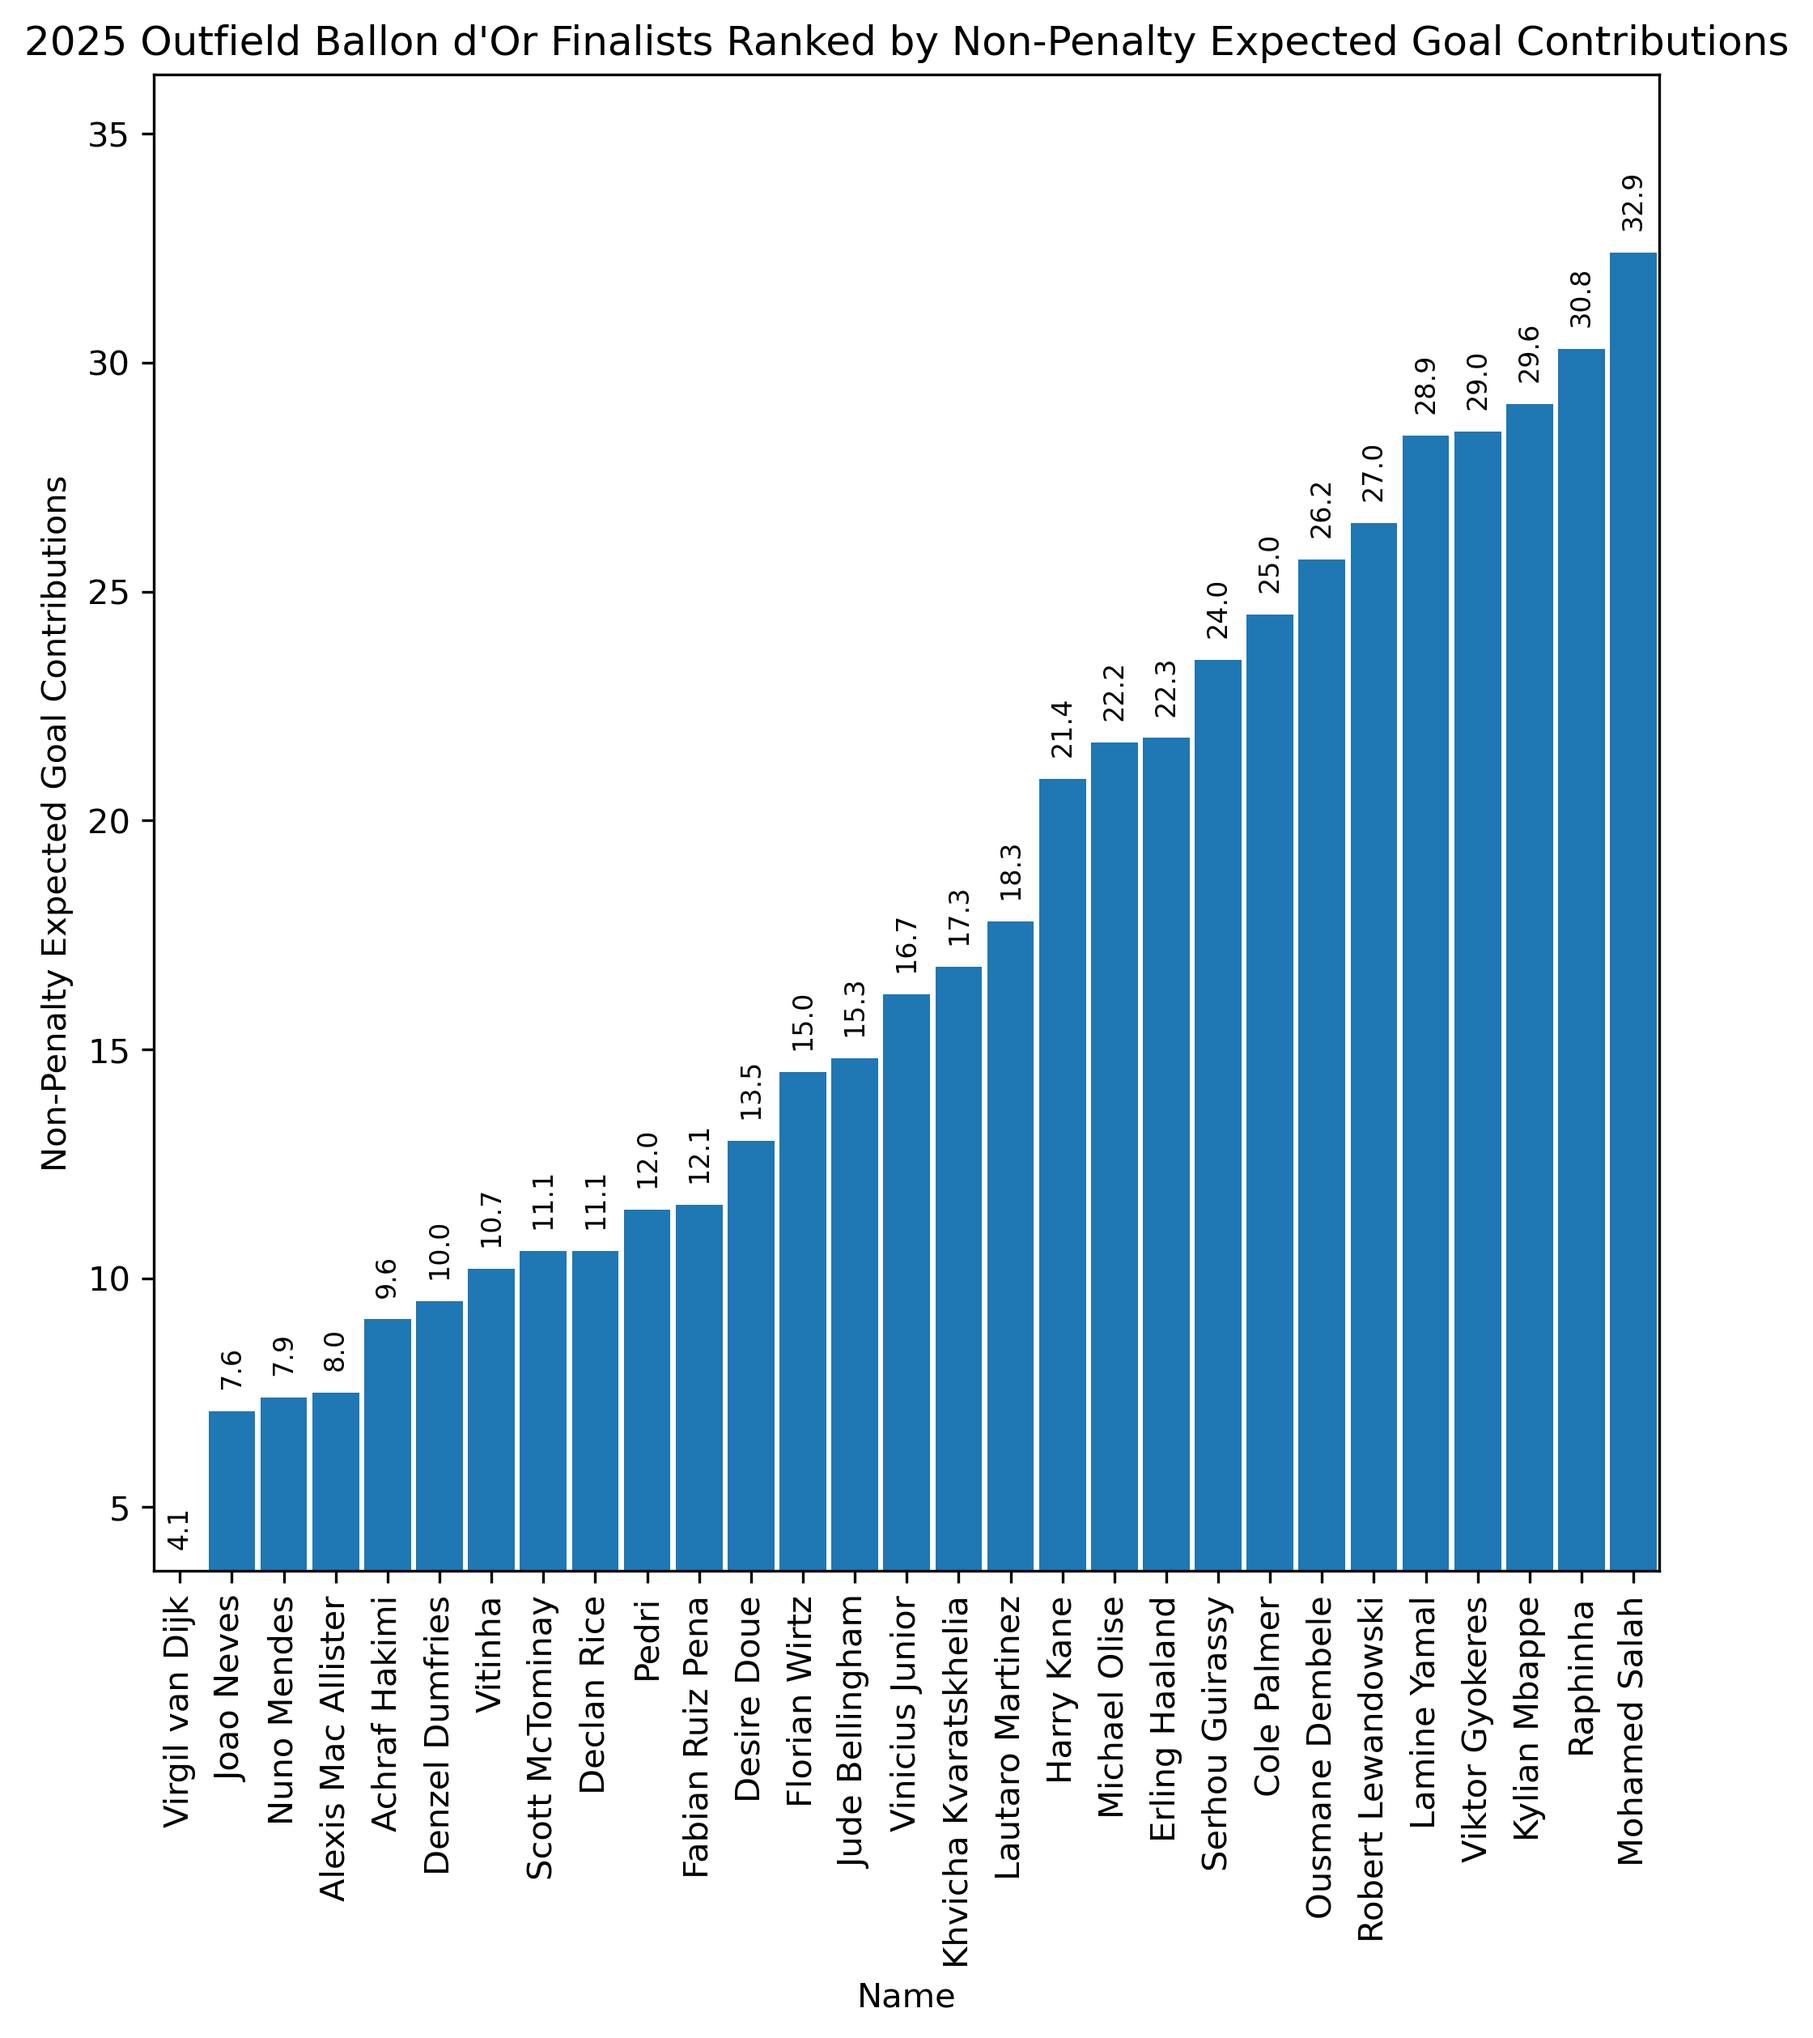
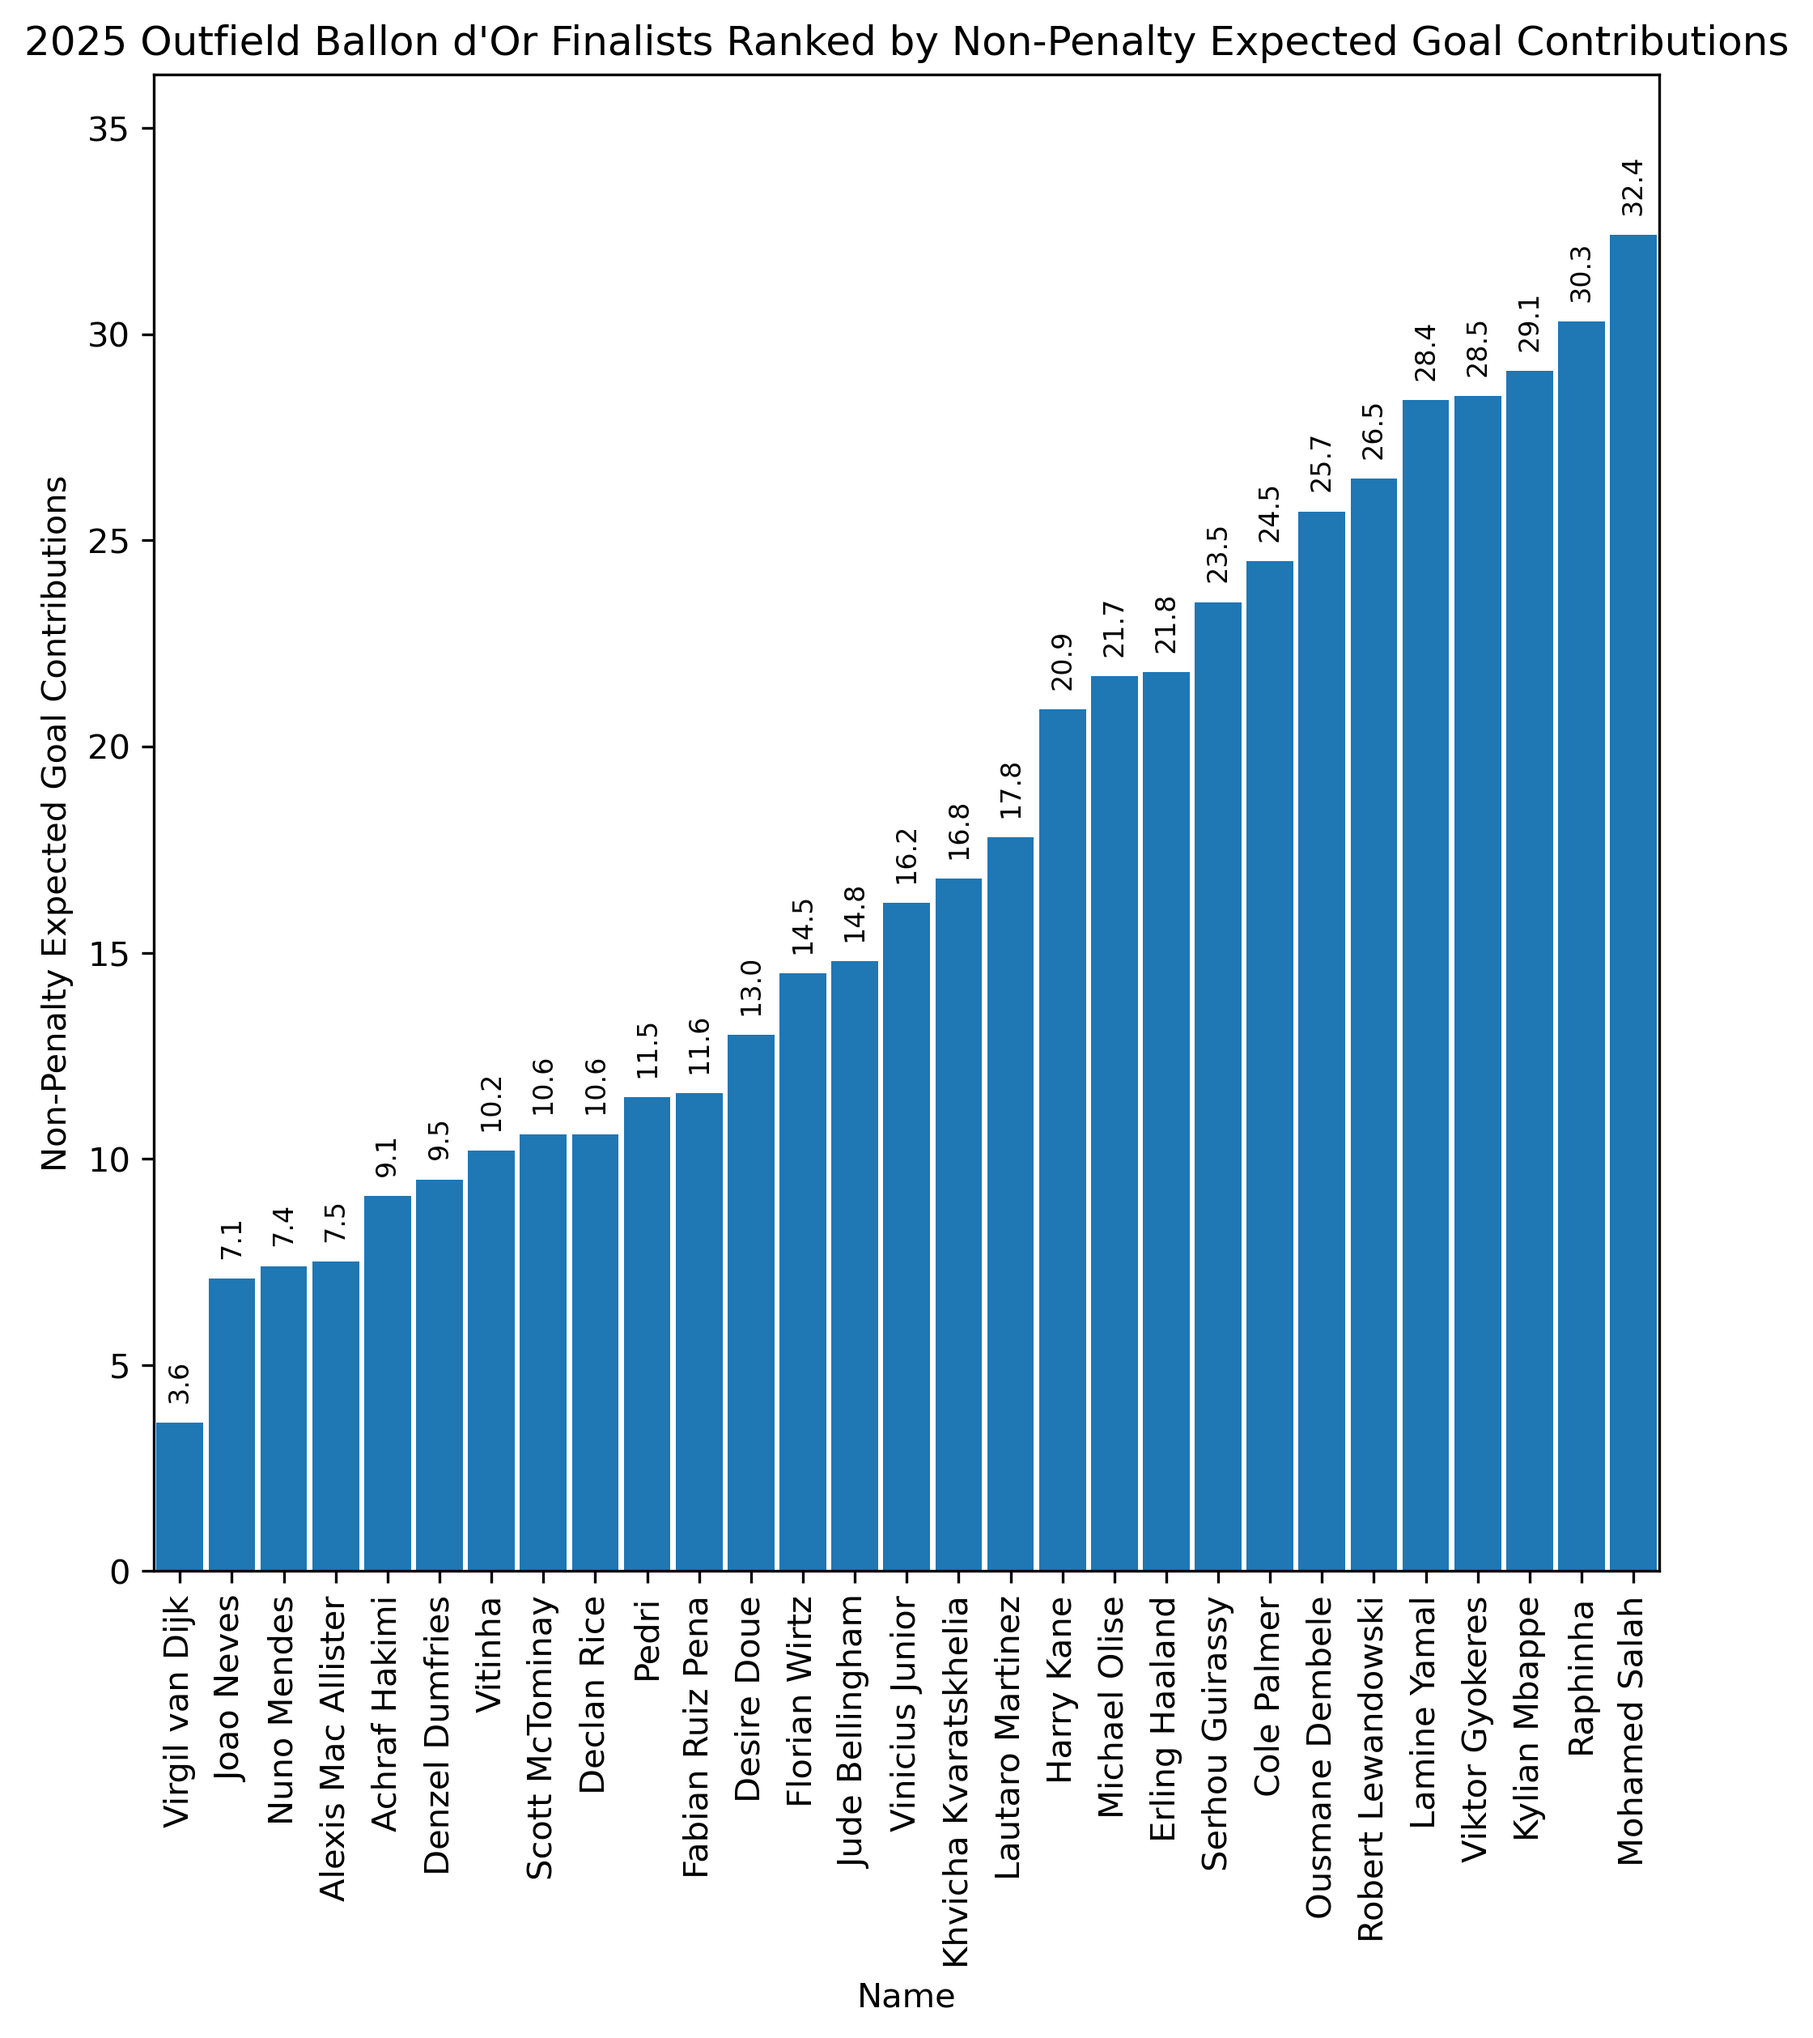
fixed error in graph function, changed percentile methodology, and updated my graphs

Changed region(s): [[0.0625, 0.124, 0.9062, 0.7747], [0.0312, 0.1549, 0.0938, 0.1859], [0.875, 0.093, 0.9062, 0.124]]

diff --git a/analysis/retrospective/past_profiles.py b/analysis/retrospective/past_profiles.py
@@ -7,28 +7,33 @@ from helper_functions.bar_graph import bar_graph
 data = pd.read_csv('data/nominees_outfield.csv')
 
 data = data.rename(columns={
-    'Carries 1/3': 'Carries in the Final Third', 
-    'Take-Ons Att': 'Take-On Attempts',
+    'Performance G+A': 'Goal Contributions', 
+    'Standard SoT': 'Shots on Target',
+    'Outcomes Off': 'Offsides',
+    'PPA': 'Passes into Opponent Penalty Area',
     'Pass Types TB': 'Through Balls',
-    'Playing Time Mn/MP': 'Minutes Per Match Played',
-    'Blocks Sh': 'Shots Blocked',
-    'Performance Fld': 'Fouls Drawn',
-    'Expected Np:G-xG': 'xG Overperformance',
-    'Per 90 Minutes G+A-PK': 'Non-Penalty Goals and Assists Per 90'
+    'Touches Att Pen': 'Touches in Opponent Penalty Area',
+    'GCA Types PassLive': 'Open Play Passes',
+    'Expected NpxG+xAG': 'Expected Non-Penalty Goal Contributions'
 })
 
 stat_cols = [
-    'Carries in the Final Third', 
-    'xG Overperformance',
+    'Goal Contributions', 
+    'Shots on Target',
+    'Offsides',
+    'Passes into Opponent Penalty Area',
     'Through Balls',
-    'Minutes Per Match Played',
-    'Fouls Drawn',
-    'Shots Blocked', 
-    'Take-On Attempts',
-    'Non-Penalty Goals and Assists Per 90'
+    'Touches in Opponent Penalty Area', 
+    'Open Play Passes',
+    'Expected Non-Penalty Goal Contributions'
 ]
 
 data = data[stat_cols + ['Name','Season','Winner']]
+
+for col in stat_cols:
+    data[col] = data.groupby('Season')[col].rank(pct=True, method='average')
+    data[col] = data[col].clip(lower=0.05)
+
 big_four = data[
     data['Name'].isin(['Lamine Yamal','Ousmane Dembele','Mohamed Salah','Raphinha'])
     & (data['Season'] == '2024-2025')
@@ -40,20 +45,12 @@ winners_df = data[
 ]
 
 profiles = winners_df[stat_cols].mean().to_frame().T
-profiles['Name'] = 'Average Previous Winner'
+profiles['Name'] = 'Past-Winner Profile'
 
 profiles = pd.concat(
     [big_four.drop(columns=['Season','Winner']), profiles],
     ignore_index=True
 )
-
-for col in stat_cols:
-    col_min = min(0, profiles[col].min())
-    col_max = profiles[col].max()
- 
-    profiles[col] = (profiles[col] - col_min) / (col_max - col_min)
-
-    profiles[col] = profiles[col].clip(lower=0.05)
 
 angles = np.linspace(0, 2 * np.pi, len(stat_cols), endpoint=False).tolist()
 angles += [angles[0]]
@@ -66,7 +63,7 @@ ax.tick_params(labelsize=8)
 ax.grid(linestyle='-', linewidth=0.6)
 
 colors = {
-    'Average Previous Winner': '#1B2A41',
+    'Past-Winner Profile': '#1B2A41',
     'Lamine Yamal': '#E09F3E',
     'Ousmane Dembele': '#3A86A8',
     'Mohamed Salah': '#6D597A',
@@ -74,7 +71,7 @@ colors = {
 }
 
 markers = {
-    'Average Previous Winner': 'o',
+    'Past-Winner Profile': 'o',
     'Lamine Yamal': 's',
     'Ousmane Dembele': '^',
     'Mohamed Salah': 'D',
@@ -112,14 +109,14 @@ for label, row in profiles.groupby('Name'):
     )
 
 for i, label in enumerate(ax.get_xticklabels()):
-    if stat_cols[i] == 'Non-Penalty Goals and Assists Per 90':
-        label.set_y(label.get_position()[1] - 0.2)
-    elif stat_cols[i] == 'Carries in the Final Third':
-        label.set_y(label.get_position()[1] - 0.18)
-    elif stat_cols[i] in ['Minutes Per Match Played', 'xG Overperformance']:
-        label.set_y(label.get_position()[1] - 0.12)
-    elif stat_cols[i] in ['Fouls Drawn','Shots Blocked',]:
+    if stat_cols[i] in ['Passes into Opponent Penalty Area','Touches in Opponent Penalty Area']:
+        label.set_y(label.get_position()[1] - 0.17)
+    elif stat_cols[i] in ['Through Balls','Shots on Target']:
         label.set_y(label.get_position()[1] - 0.07)
+    elif stat_cols[i] in ['Goal Contributions']:
+        label.set_y(label.get_position()[1] - 0.1)
+    elif stat_cols[i] in ['Expected Non-Penalty Goal Contributions',]:
+        label.set_y(label.get_position()[1] - 0.2)
 
 ax.legend(loc='upper left', bbox_to_anchor=(1.1, 1.1), frameon=True)
 
@@ -129,10 +126,10 @@ similarity_scores = pd.DataFrame(columns=['Name','Similarity Score'])
 
 for name in ['Lamine Yamal','Ousmane Dembele','Mohamed Salah','Raphinha']:
     player_vector = profiles.loc[profiles['Name'] == name, stat_cols].to_numpy().reshape(1, -1)
-    avg_winner_vector = profiles.loc[profiles['Name'] == 'Average Previous Winner', stat_cols].to_numpy().reshape(1, -1)
+    avg_winner_vector = profiles.loc[profiles['Name'] == 'Past-Winner Profile', stat_cols].to_numpy().reshape(1, -1)
 
     similarity = cosine_similarity(player_vector, avg_winner_vector)[0][0]
 
     similarity_scores.loc[len(similarity_scores)] = [name, float(similarity)]
 
-bar_graph(similarity_scores, 'Name','Similarity Score','Player','Similarity to Average Past Winner Profile','Similarity to Average Past Winner Profile Per Player','similarity_scores')
+bar_graph(similarity_scores, 'Name','Similarity Score','Player','Cosine Similarity to Past-Winner Profile','Cosine Similarity to Past-Winner Profile By Player','similarity_scores', minimum=0.8)

diff --git a/analysis/preliminary/basicgraphs.py b/analysis/preliminary/basicgraphs.py
@@ -5,5 +5,5 @@ data = pd.read_csv('data/nominees_outfield.csv')
 data = data[data['Season'] == '2024-2025']
 data['Per 90 Minutes NpxG+xAG'] = data['Expected NpxG+xAG'] / data['Playing Time 90s']
 
-bar_graph(data, 'Name', 'Expected NpxG+xAG', 'Name','Non-Penalty Expected Goal Contributions', "2025 Outfield Ballon d'Or Finalists Ranked by Non-Penalty Expected Goal Contributions",'nonpen_xgxa')
-bar_graph(data, 'Name', 'Per 90 Minutes NpxG+xAG', 'Name','Non-Penalty Expected Goal Contributions Per 90', "2025 Outfield Ballon d'Or Finalists Ranked by Non-Penalty Expected Goal Contributions Per 90",'nonpen_xgxa_per90')
+bar_graph(data, 'Name', 'Expected NpxG+xAG', 'Name','Non-Penalty Expected Goal Contributions', "2025 Outfield Ballon d'Or Finalists Ranked by Non-Penalty Expected Goal Contributions",'nonpen_xgxa', minimum=0)
+bar_graph(data, 'Name', 'Per 90 Minutes NpxG+xAG', 'Name','Non-Penalty Expected Goal Contributions Per 90', "2025 Outfield Ballon d'Or Finalists Ranked by Non-Penalty Expected Goal Contributions Per 90",'nonpen_xgxa_per90', minimum=0)

diff --git a/helper_functions/bar_graph.py b/helper_functions/bar_graph.py
@@ -1,6 +1,9 @@
 import matplotlib.pyplot as plt
 
-def bar_graph(df, x_col, y_col, xlabel, ylabel, title, graph_name, limit_to = 0):
+def bar_graph(df, x_col, y_col, xlabel, ylabel, title, graph_name, limit_to = 0, minimum = None):
+    if minimum is None:
+        minimum = min(df[y_col])
+
     df = df.sort_values(by=y_col)
 
     if limit_to > 0:
@@ -32,11 +35,11 @@ def bar_graph(df, x_col, y_col, xlabel, ylabel, title, graph_name, limit_to = 0)
         height = bar.get_height() + max_bar_height * 0.015
         ax.text(
             bar.get_x() + bar.get_width() / 2, height,
-            f'{height:{round_to}f}',
+            f'{bar.get_height():{round_to}f}',
             ha='center', va='bottom', fontsize=8, rotation=90
         )
 
-    ax.set_ylim(min(df[y_col]), max(df[y_col]) * 1.12)
+    ax.set_ylim(minimum, max(df[y_col]) * 1.12)
     ax.set_xlim(-0.5, len(df[x_col]) - 0.5)
 
     plt.savefig(f'analysis/graphs/{graph_name}.png', dpi=300, bbox_inches='tight')
